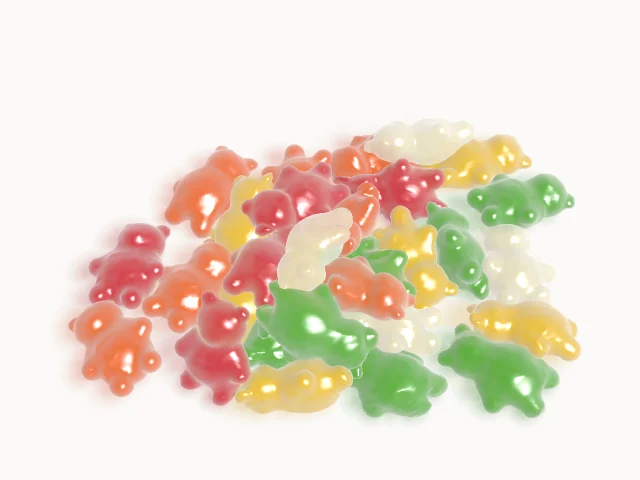
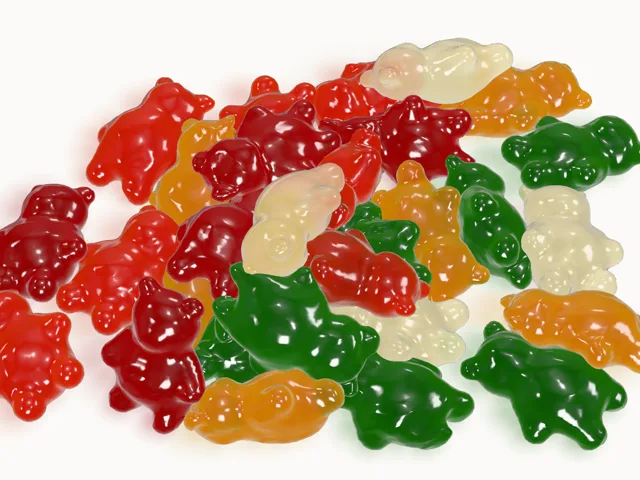
gummy-bears: judge drag stretch by its peak, real-GPU cover and measurements
Rebased onto main after painterly-peacock (the five registration files now
list both pages, peacock first).

First browser-check run on a real GPU (Apple M4, Chrome): 53 of 54. The miss
was phone touch drag: the check read the stretch 300 ms after the finger
stopped, when the body had already followed the head (1.04). During the drag
it peaked at 1.33 on phone touch and 1.65 with the desktop mouse, so the
page was fine. The check now reads maxStretch, which covers this drag only
because the page is reloaded first. 54 of 54.

- Cover replaced with a real-GPU screenshot of the full pile.
- SPEC records measured draw calls (8 desktop, 7 phone tier), triangles, and
  frame rate while pouring to the cap (60 fps, worst frame 16.8 ms, on M4;
  a real phone CPU is not covered). Root csp-check now run and clean.

diff --git a/gummy-bears/SPEC.md b/gummy-bears/SPEC.md
@@ -38,9 +38,9 @@
 ## 预算（照实写）
 
 - 三角形：熊每只 5,648（桌面档）/ 3,200（手机档）。桌面档倒满 30 只 169,440 个，加桌面 2 个；手机档满 18 只 57,600 个。影子是点：桌面档满 30 × 82 = 2,460 个点。这是 Node 里按网格数出来的；`renderer.info` 的实际数字要在 `browser-check` 里读。
-- 绘制次数（按代码推算，没有在浏览器里读过）：每种口味一张合并网格，最多 5 次；桌面 1 次；影子图 1 次；桌面档的透射要把不透明的东西（桌面）先画进一张图，再 1 次。桌面档每帧最多约 8 次，手机档约 7 次。`browser-check` 会把真实读数写进 `report.json`。
+- 绘制次数：每种口味一张合并网格，最多 5 次；桌面 1 次；影子图 1 次；桌面档的透射要把不透明的东西（桌面）先画进一张图，再 1 次。2026-11-24 在 Mac mini（Apple M4，Chrome，ANGLE Metal）读 `renderer.info`：桌面档每帧 8 次，手机档 7 次，和推算一致；三角形桌面 5 只时 28,244、倒满 30 只 169,444，手机档 5 只 16,002、倒满 18 只 57,602。
 - CPU：物理和网格都在主线程。只有醒着的熊会求解、重算网格和法线、上传那一段顶点。在这台云端容器（Intel Xeon 2.1 GHz，Node）上量的：桌面档 30 只全醒时物理约 9 ms 一帧、网格加法线约 11–20 ms 一帧；手机档 18 只全醒时约 4 ms 和 4–6 ms。全醒只出现在倒一把之后几秒，之后熊陆续睡着，静止时几乎不花 CPU。页面每帧最多补两步物理，算不过来就慢动作，不会越积越多。
-- 帧率：没有在真显卡上跑过，不写结论。
+- 帧率：同一台机器、无头 Chrome、机器负载 6–7，连续点「再倒一些」倒到上限，每倒一次量 1.5 秒：桌面 1440×900 高档从 5 只到 30 只、手机视口 390×664 低档从 5 只到 18 只，全程 60 fps，最差一帧 16.8 ms。这是 M4 的 CPU，真手机的 CPU 慢得多，倒糖那几秒会不会卡没有验证。
 - 单文件 ≤ 1 MB（目前约 596 KB，含 Three.js 0.186.1 和它的 MIT 许可）。
 
 ## __PLAYTEST__
@@ -64,12 +64,12 @@
 
 ## 截图和预览
 
-- `tools/browser-check.cjs`：真实 Chrome 截 8 张（一排、拉长、甩出落地、倒满 × 桌面 1440×900、手机 390×664）放 `shots/`，加 `shots/report.json`。**还没跑过**：写这个页面的环境下载不了浏览器。第一次跑时阈值可能要调。
-- `tools/preview.mjs`：Node 里的 CPU 预览，用同一套物理、场面和相机，在 CPU 上逐像素画（平面着色加简单高光和同样的彩色影子），没有折射。只能看构图、造型、遮挡，**不是 WebGL 截图**。输出在 `shots/cpu-preview/`。首页封面 `covers/gummy-bears.webp` 暂时也是这样画出来的（倒满一堆），等真显卡截图出来再换。
+- `tools/browser-check.cjs`：真实 Chrome 截 8 张（一排、拉长、甩出落地、倒满 × 桌面 1440×900、手机 390×664）放 `shots/`，加 `shots/report.json`。2026-11-24 第一次在真显卡上跑：54 项过 53，没过的是手机触屏拖动「拉长」那项。查下来页面没问题：触屏和鼠标都抓得住，拖动中拉伸峰值手机 1.33、桌面 1.65；是检查在停手 300 ms 后才读拉伸，那时身体已经跟上、拉伸回落到 1.04。判据改成读 `maxStretch`（检查前重新加载页面，所以只算这一次拖动），之后 54 项全过。
+- `tools/preview.mjs`：Node 里的 CPU 预览，用同一套物理、场面和相机，在 CPU 上逐像素画（平面着色加简单高光和同样的彩色影子），没有折射。只能看构图、造型、遮挡，**不是 WebGL 截图**。输出在 `shots/cpu-preview/`。首页封面 `covers/gummy-bears.webp` 已换成真显卡下倒满一堆的截图（640×480）。
 
 ## 已知还没验证的
 
-- 真显卡下的样子：折射、厚度变深、高光、熊后面的熊透过来是否好看；彩色影子的浓淡。
-- 帧率和倒满时的 CPU 负担，尤其手机。
+- 真显卡下的样子 2026-11-24 已看过 8 张截图：折射、厚度变深、高光、彩色影子都出来了，近透明的菠萝色在白桌面上看得清；倒满时熊后面的熊透过来没有看到明显的错乱。手机档没有折射，颜色偏浅偏粉，是降档的预期。
+- 真手机上倒糖那几秒的 CPU 负担（M4 上全程 60 fps，不代表手机）。
 - 真实鼠标和触屏的手感：拉多远算远、甩的力度、抓取半径。
-- 根目录 `tools/csp-check.cjs` 没有跑（要 Playwright 浏览器）。
+- 根目录 `tools/csp-check.cjs` 2026-11-24 跑过：无违规、无外部请求、无报错。

diff --git a/gummy-bears/README.md b/gummy-bears/README.md
@@ -12,7 +12,7 @@ Every shape, colour and shadow is generated in code; there are no image, model o
 npm ci
 node tools/build.mjs              # single file dist/index.html
 node --test tests/*.test.cjs      # Node tests: back to shape after a full pull, no pass-through, pile settles, reset, same seed, framing, mesh, single file
-node tools/browser-check.cjs      # real Chrome: 8 screenshots, layout, pixels, mouse and touch drag, page errors (not run yet)
+node tools/browser-check.cjs      # real Chrome: 8 screenshots, layout, pixels, mouse and touch drag, page errors
 node tools/preview.mjs            # CPU composition preview for machines without WebGL (not a rendered screenshot)
 ```
 

diff --git a/gummy-bears/README_CN.md b/gummy-bears/README_CN.md
@@ -12,7 +12,7 @@
 npm ci
 node tools/build.mjs              # 打成单文件 dist/index.html
 node --test tests/*.test.cjs      # Node 测试：拉到最大回原形、不穿透、倒满静止、reset、同种子、构图、网格、单文件
-node tools/browser-check.cjs      # 真实 Chrome：8 张截图、布局、像素、鼠标和触屏拖动、页面报错（还没跑过）
+node tools/browser-check.cjs      # 真实 Chrome：8 张截图、布局、像素、鼠标和触屏拖动、页面报错
 node tools/preview.mjs            # 没有 WebGL 的机器上看构图的 CPU 预览（不是渲染截图）
 ```
 
